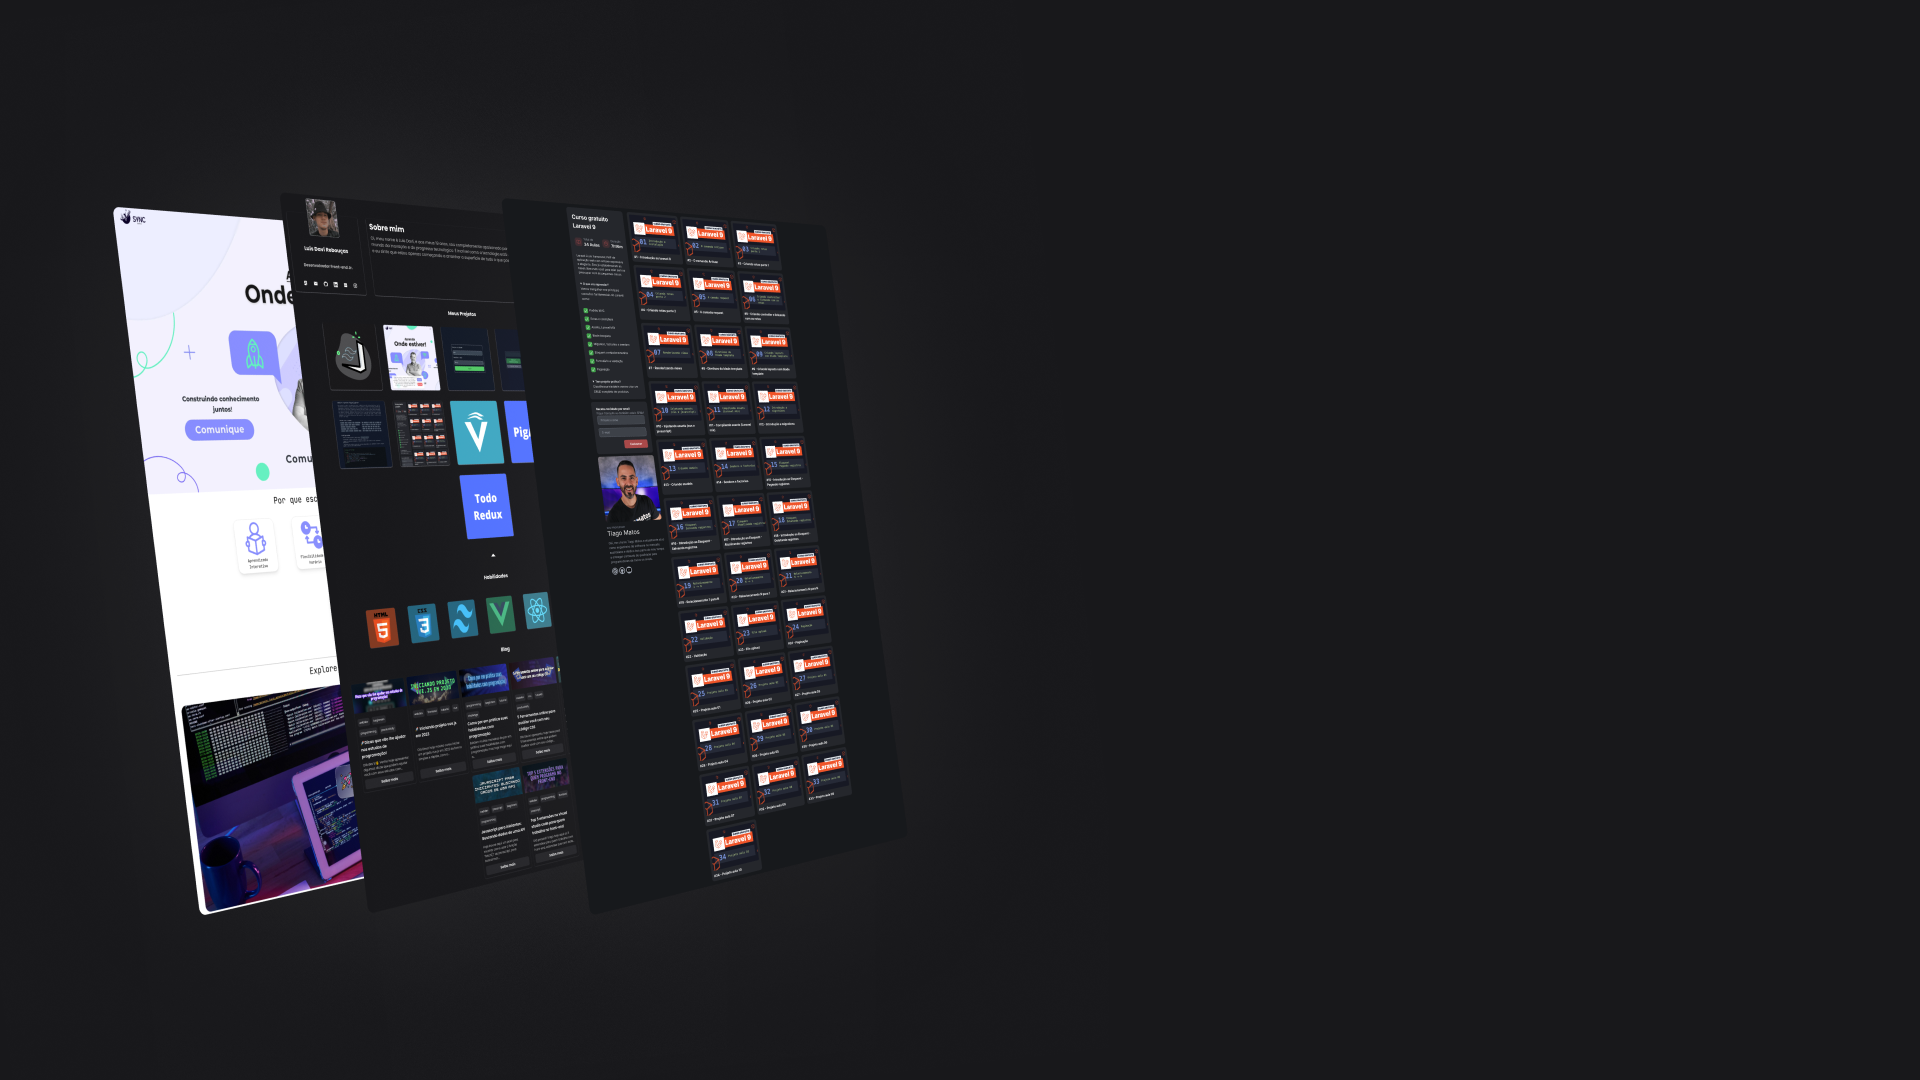
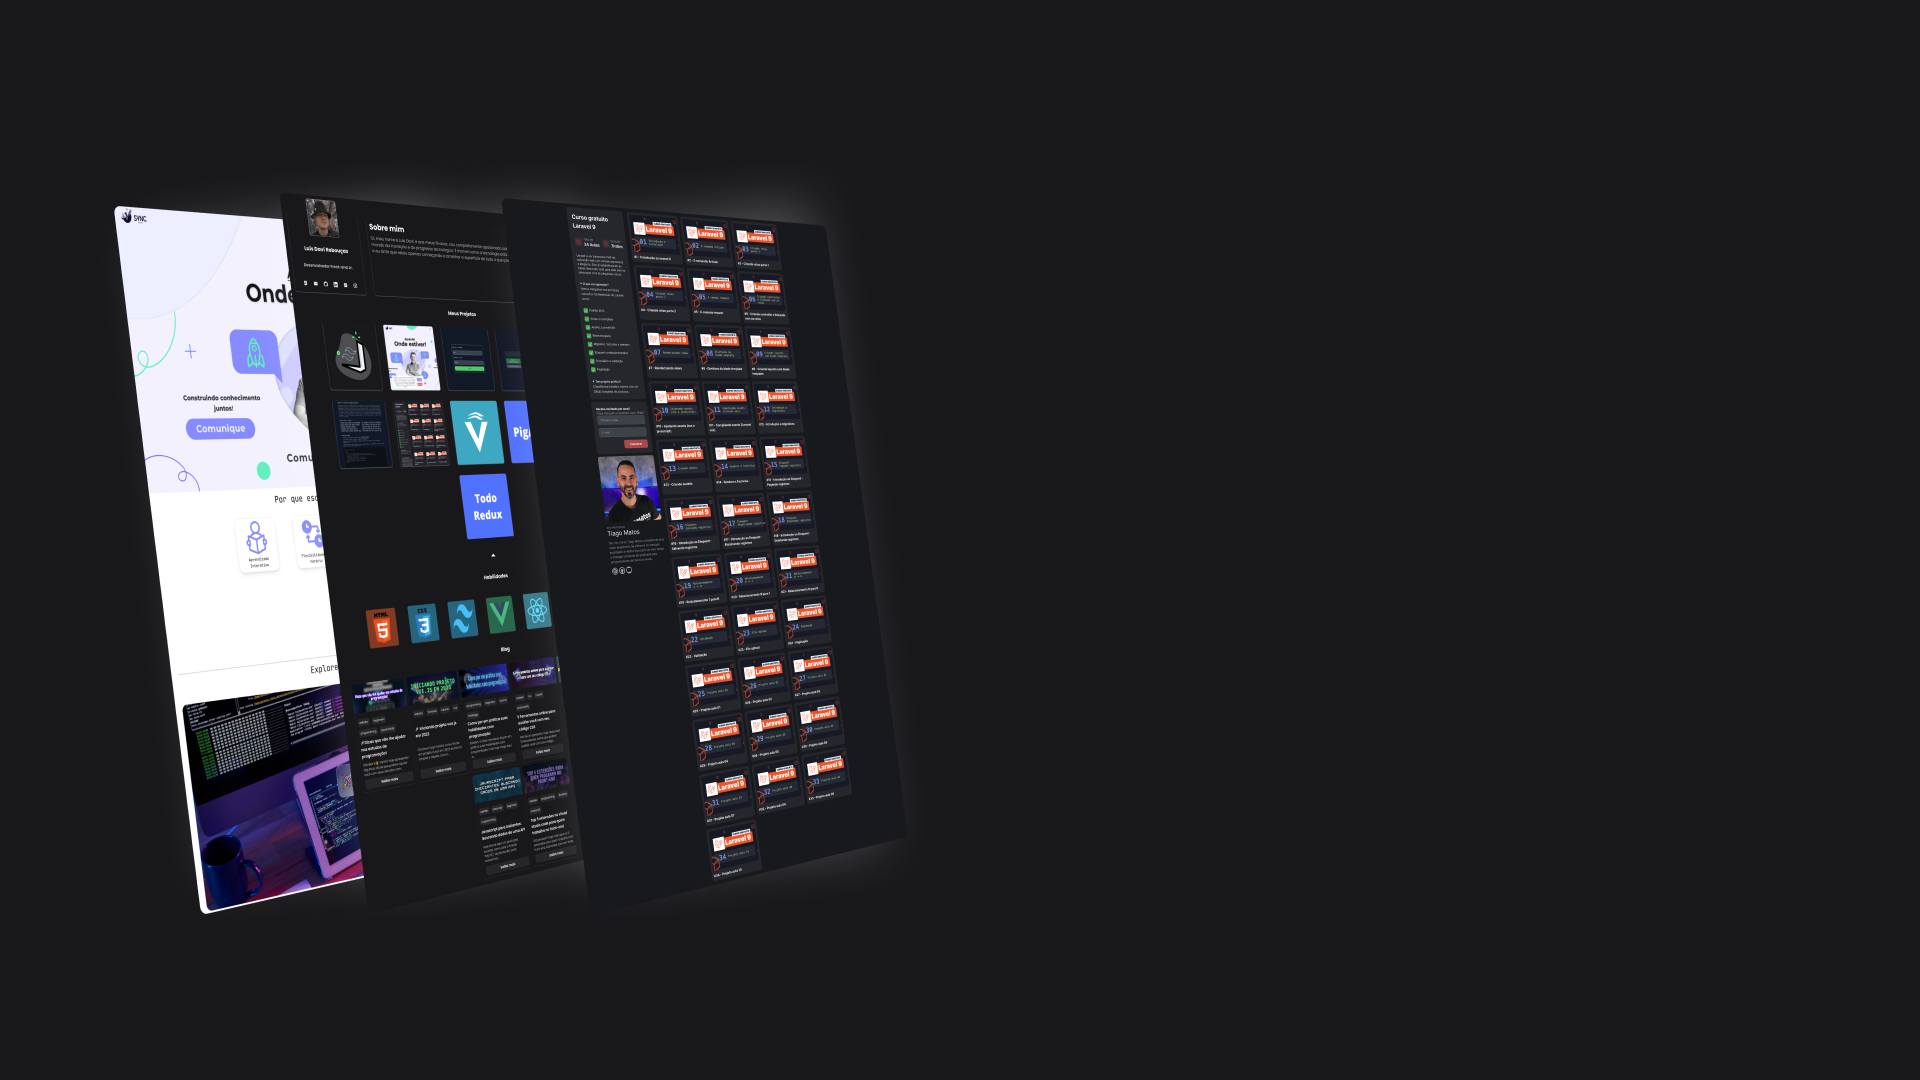
created more sections

diff --git a/src/routes/Contact.vue b/src/routes/Contact.vue
@@ -1,5 +1,5 @@
 <script setup>
-import {ref} from 'vue'
+import { ref } from 'vue'
 const message = ref(`
 🚀 *Mensagem de {name}*
 \n
@@ -15,12 +15,12 @@ const form = ref({
 })
 
 
-function sendMessage(){
+function sendMessage() {
     message.value = message.value
         .replace('{name}', form.value.name || 'Anônimo')
         .replace('{subject}', form.value.subject || 'Sem assunto')
         .replace('{message}', form.value.message || 'Mensagem vazia')
-    
+
     window.open(`https://api.whatsapp.com/send?phone=${encodeURIComponent(5584999153350)}&text=${encodeURIComponent(message.value)}`)
 }
 
@@ -28,75 +28,168 @@ function sendMessage(){
 </script>
 
 <template>
-    <main class="w-fulll min-h-screen flex items-b justify-end p-6 text-white" id="main">
-        <div class="flex flex-col items-center justify-between gap-2 w-full md:max-w-[60vw] h-full">
-            <div class="flex flex-col h-max w-max mb-2">
-                <h1 class="border-b-2 py-1 border-white text-3xl font-bold">Luís Daví Rebouças</h1>
-                <h2 class="text-xl">Desenvolvimento de lading pages</h2>
+    <main class="w-full h-max min-h-screen flex flex-col gap-12 text-white overflow-hidden">
+        <section class="w-full min-h-screen flex items-center justify-end" id="formSection">
+            <div class="flex flex-col items-center justify-between gap-2 w-full md:max-w-[60vw] h-full">
+                <div class="flex flex-col h-max w-max mb-2">
+                    <h1 class="border-b-2 py-1 border-white text-2xl font-bold">Luís Daví Rebouças</h1>
+                    <h2 class="text-xl">Desenvolvimento de lading pages</h2>
+                </div>
+                <div class="w-full h-max min-h-[20rem] flex flex-col items-center gap-6 p-2" id="form">
+                    <div class="flex flex-row gap-2 items-center">
+                        <img src="/Bitmap.png" alt="Emoji" class="w-12 h-12">
+                        <h1 class="font-bold text-lg">Preencha o formulário<br> e entre em contato comigo!</h1>
+
+                    </div>
+                    <div class="flex flex-wrap justify-center w-full h-max px-2 pb-2 gap-y-4">
+                        <input type="text" class="w-[49%]" placeholder="Seu nome" v-model="form.name">
+                        <select v-model="form.subject"
+                            class="w-[49%] bg-transparent text-white  toutline-none border-b border-zinc-200/50"
+                            placeholder="Seu Objetivo">
+                            <option value="" disabled class="text-black/50">O que deseja fazer?</option>
+                            <option value="Orçamento">Orçamento</option>
+                            <option value="Dúvida">Tirar Dúvidas</option>
+                        </select>
+                        <textarea v-model="form.message" placeholder="Escreva sua mensagem"></textarea>
+                        <button @click="sendMessage"
+                            class="w-full p-2 bg-[#41bd96] hover:bg-[#2fa27d] rounded font-bold">Quero minha própria página
+                            web!</button>
+                    </div>
+                </div>
+                <div class="w-full h-max flex gap-4 flex items-center justify-end opacity-70">
+                    <div class="flex flex-row gap-2 flex items-center justify-center">
+                        <svg xmlns="http://www.w3.org/2000/svg" width="32" height="32" viewBox="0 0 24 24">
+                            <g fill="none" stroke="currentColor" stroke-linecap="round" stroke-width="1.5">
+                                <path stroke-linejoin="round" stroke-miterlimit="1.5"
+                                    d="M8 19a2 2 0 1 0 0-4a2 2 0 0 0 0 4Zm10 0a2 2 0 1 0 0-4a2 2 0 0 0 0 4Z" />
+                                <path d="M10.05 17H15V6.6a.6.6 0 0 0-.6-.6H1m4.65 11H3.6a.6.6 0 0 1-.6-.6v-4.9" />
+                                <path stroke-linejoin="round" d="M2 9h4" />
+                                <path
+                                    d="M15 9h5.61a.6.6 0 0 1 .548.356l1.79 4.028a.6.6 0 0 1 .052.243V16.4a.6.6 0 0 1-.6.6h-1.9M15 17h1" />
+                            </g>
+                        </svg>
+                        <span class="font-bold">Prazo de entrega de até duas semana</span>
+                    </div>
+                    <div class="flex flex-row gap-2 flex items-center justify-center">
+                        <svg xmlns="http://www.w3.org/2000/svg" width="32" height="32" viewBox="0 0 256 256">
+                            <path fill="currentColor"
+                                d="M128 24a104 104 0 1 0 104 104A104.11 104.11 0 0 0 128 24Zm88 104a87.62 87.62 0 0 1-6.4 32.94l-44.7-27.49a15.92 15.92 0 0 0-6.24-2.23l-22.82-3.08a16.11 16.11 0 0 0-16 7.86h-8.72l-3.8-7.86a15.91 15.91 0 0 0-11-8.67l-8-1.73L96.14 104h16.71a16.06 16.06 0 0 0 7.73-2l12.25-6.76a16.62 16.62 0 0 0 3-2.14l26.91-24.34A15.93 15.93 0 0 0 166 49.1l-.36-.65A88.11 88.11 0 0 1 216 128Zm-176 0a87.53 87.53 0 0 1 8.54-37.8l11.34 30.27a16 16 0 0 0 11.62 10l21.43 4.61l3.81 7.92a16.09 16.09 0 0 0 14.4 9h1.48l-7.23 16.23a16 16 0 0 0 2.86 17.37l.14.14l19.61 20.2l-1.94 10A88.11 88.11 0 0 1 40 128Z" />
+                        </svg>
+                        <span class="font-bold">Aumente sua presença online!</span>
+                    </div>
+                </div>
             </div>
-            <div class="w-full h-max min-h-[20rem] flex flex-col items-center gap-6 p-2" id="form">
-                <div class="flex flex-row gap-2 items-center">
-                    <img src="/Bitmap.png" alt="Emoji" class="w-12 h-12">
-                    <h1 class="font-bold text-lg">Preencha o formulário<br> e entre em contato comigo!</h1>
-                    
+        </section>
+        <section class="w-full min-h-screen flex flex-col md:flex-row items-center  justify-center" id="ladingAbout">
+            <div class="flex flex-col items-start gap-12 flex-1">
+                <div class="flex gap-2 items-center justify-center">
+                    <img src="/website.png" alt="Emoji" class="w-24 h-24">
+                    <h1 class="text-4xl lg:text-6xl">O que é uma lading page?</h1>
                 </div>
-                <div class="flex flex-wrap justify-center w-full h-max px-2 pb-2 gap-y-4">
-                    <input type="text" class="w-[49%]" placeholder="Seu nome" v-model="form.name">
-                    <select v-model="form.subject" class="w-[49%] bg-transparent text-white  toutline-none border-b border-zinc-200/50" placeholder="Seu Objetivo">
-                        <option value="" disabled class="text-black/50">O que deseja fazer?</option>
-                        <option value="Orçamento" >Orçamento</option>
-                        <option value="Dúvida" >Tirar Dúvidas</option>
-                    </select>
-                    <textarea v-model="form.message" placeholder="Escreva sua mensagem"></textarea>
-                    <button @click="sendMessage" class="w-full p-2 bg-[#41bd96] hover:bg-[#2fa27d] rounded font-bold">Enviar!</button>
+                <p class="w-full max-w-[72rem] text-xl text-center opacity-80">Uma landing page é uma página da web criada para direcionar a atenção do visitante a uma oferta específica e incentivá-lo a tomar uma ação desejada, como preencher um formulário ou fazer uma compra. É projetada para conversões eficazes.</p>
+            </div>
+            <div class="flex-1 h-full">
+                <img src="/websitess.png" alt="websites">
+            </div>
+            
+        </section>
+        <section class="w-full min-h-screen flex flex-col items-center gap-2" id="">
+            <div class="flex flex-col items-center gap-2">
+                <div class="flex gap-2 items-center justify-center">
+                    <img src="/bullseye.png" alt="Emoji" class="w-24 h-24">
+                    <h1 class="text-4xl lg:text-6xl">Quais as vantagens?</h1>
+                </div>
+                <p class="w-full max-w-[72rem] text-xl text-center opacity-80">Uma landing page eficaz é uma ferramenta valiosa para
+                    qualquer negócio. Ela simplifica a conversão de visitantes em clientes, fornece informações claras,
+                    aumenta a visibilidade e ajuda a economizar tempo e recursos. Potencialize seu sucesso online com uma
+                    landing</p>
+                <div class="flex flex-wrap gap-4 mt-20 w-full justify-center gap-y-10">
+                    <div class="flex flex-col  max-w-[28rem] gap-4">
+                        <div class="flex gap-2 items-center">
+                            <img src="/1st.png" alt="Emoji" class="w-16 h-16">
+                            <h1 class="text-3xl h-max">Atração de clientes</h1>
+                        </div>
+                        <p class="pl-[4.5rem] opacity-80 text-left text-xl">
+                            Uma landing page é uma poderosa ferramenta de atração de clientes, fornecendo informações
+                            diretas e cativantes, incentivando visitantes a tomar medidas específicas, como inscrições ou
+                            compras. Ela simplifica o processo de conversão, resultando em mais leads e clientes para o seu
+                            negócio.</p>
+                    </div>
+                    <div class="flex flex-col  max-w-[28rem] gap-4">
+                        <div class="flex gap-2 items-center">
+                            <img src="/2st.png" alt="Emoji" class="w-16 h-16">
+                            <h1 class="text-3xl h-max">Economia de tempo</h1>
+                        </div>
+                        <p class="pl-[4.5rem] opacity-80 text-left text-xl">Ter uma landing page economiza tempo ao oferecer
+                            informações claras e diretas aos visitantes, acelerando a tomada de decisão e a conversão.
+                            Simplifica o processo de comunicação, poupando tempo tanto para os clientes quanto para os
+                            prestadores de serviços. </p>
+                    </div>
+                    <div class="flex flex-col  max-w-[28rem] gap-4">
+                        <div class="flex gap-2 items-center">
+                            <img src="/3st.png" alt="Emoji" class="w-16 h-16">
+                            <h1 class="text-3xl h-max">Facilidade de compartilhamento</h1>
+                        </div>
+                        <p class="pl-[4.5rem] opacity-80 text-left text-xl">Uma landing page simplifica o compartilhamento de
+                            informações,
+                            fornecendo um link único que pode ser facilmente compartilhado em diversos canais, tornando a
+                            divulgação dos serviços mais acessível e eficaz.</p>
+                    </div>
                 </div>
             </div>
-            <div class="w-full h-max flex gap-4 flex items-center justify-end opacity-70">
-                <div class="flex flex-row gap-2 flex items-center justify-center">
-                    <svg xmlns="http://www.w3.org/2000/svg" width="32" height="32" viewBox="0 0 24 24"><g fill="none" stroke="currentColor" stroke-linecap="round" stroke-width="1.5"><path stroke-linejoin="round" stroke-miterlimit="1.5" d="M8 19a2 2 0 1 0 0-4a2 2 0 0 0 0 4Zm10 0a2 2 0 1 0 0-4a2 2 0 0 0 0 4Z"/><path d="M10.05 17H15V6.6a.6.6 0 0 0-.6-.6H1m4.65 11H3.6a.6.6 0 0 1-.6-.6v-4.9"/><path stroke-linejoin="round" d="M2 9h4"/><path d="M15 9h5.61a.6.6 0 0 1 .548.356l1.79 4.028a.6.6 0 0 1 .052.243V16.4a.6.6 0 0 1-.6.6h-1.9M15 17h1"/></g></svg>
-                    <span class="font-bold">Prazo de entrega de até uma semana</span>
-                </div>
-                <div class="flex flex-row gap-2 flex items-center justify-center">
-                    <svg xmlns="http://www.w3.org/2000/svg" width="32" height="32" viewBox="0 0 256 256"><path fill="currentColor" d="M128 24a104 104 0 1 0 104 104A104.11 104.11 0 0 0 128 24Zm88 104a87.62 87.62 0 0 1-6.4 32.94l-44.7-27.49a15.92 15.92 0 0 0-6.24-2.23l-22.82-3.08a16.11 16.11 0 0 0-16 7.86h-8.72l-3.8-7.86a15.91 15.91 0 0 0-11-8.67l-8-1.73L96.14 104h16.71a16.06 16.06 0 0 0 7.73-2l12.25-6.76a16.62 16.62 0 0 0 3-2.14l26.91-24.34A15.93 15.93 0 0 0 166 49.1l-.36-.65A88.11 88.11 0 0 1 216 128Zm-176 0a87.53 87.53 0 0 1 8.54-37.8l11.34 30.27a16 16 0 0 0 11.62 10l21.43 4.61l3.81 7.92a16.09 16.09 0 0 0 14.4 9h1.48l-7.23 16.23a16 16 0 0 0 2.86 17.37l.14.14l19.61 20.2l-1.94 10A88.11 88.11 0 0 1 40 128Z"/></svg>
-                    <span class="font-bold">Aumente sua presença online!</span>
-                </div>
-            </div>
-        </div>
+        </section>
     </main>
 </template>
 
 <style scoped>
 @import url('https://fonts.googleapis.com/css2?family=Poppins:ital,wght@0,100;0,200;0,300;0,400;0,500;0,600;0,700;0,800;0,900;1,100;1,200;1,300;1,400;1,500;1,600;1,700;1,800;1,900&display=swap');
-input{
+
+* {
+    font-family: 'Poppins', sans-serif;
+    transition: all 300ms;
+}
+
+input {
     @apply outline-none bg-transparent border-b border-zinc-200/50 px-2 py-1
 }
-body{
+
+body {
     background-color: #18181b;
 }
 
-select > *{
+select>* {
     @apply text-black rounded-lg
 }
 
-textarea{
+section {
+    @apply p-6
+}
+
+main {
+    @apply bg-[#18181b]
+}
+
+textarea {
     @apply w-full h-52 bg-transparent outline-none border border-zinc-200/50 rounded p-2
 }
-#main{
+
+#formSection {
     background-image: url('/linksBackground.png');
     background-position: center;
     background-size: cover;
 }
-#form{
+
+#form {
     border-radius: 15px;
     border: 1px solid #FFF;
     background: rgba(24, 24, 27, 0.25);
-    box-shadow: 0px 0px 129px 12px rgba(255, 255, 255, 0.131) inset, 0px 4px 165px -50px rgba(255, 255, 255, 0.25);
+    box-shadow: 0px 0px 129px 12px rgba(255, 255, 255, 0.131) inset;
     backdrop-filter: blur(15px);
 }
 
-  
-*{
-    font-family: 'Poppins', sans-serif;
-    transition: all 300ms;
-}
+/* #ladingAbout{
+    background-image: url('/definition.png');
+    background-position: center;
+    background-size: cover;
+} */
 </style>
